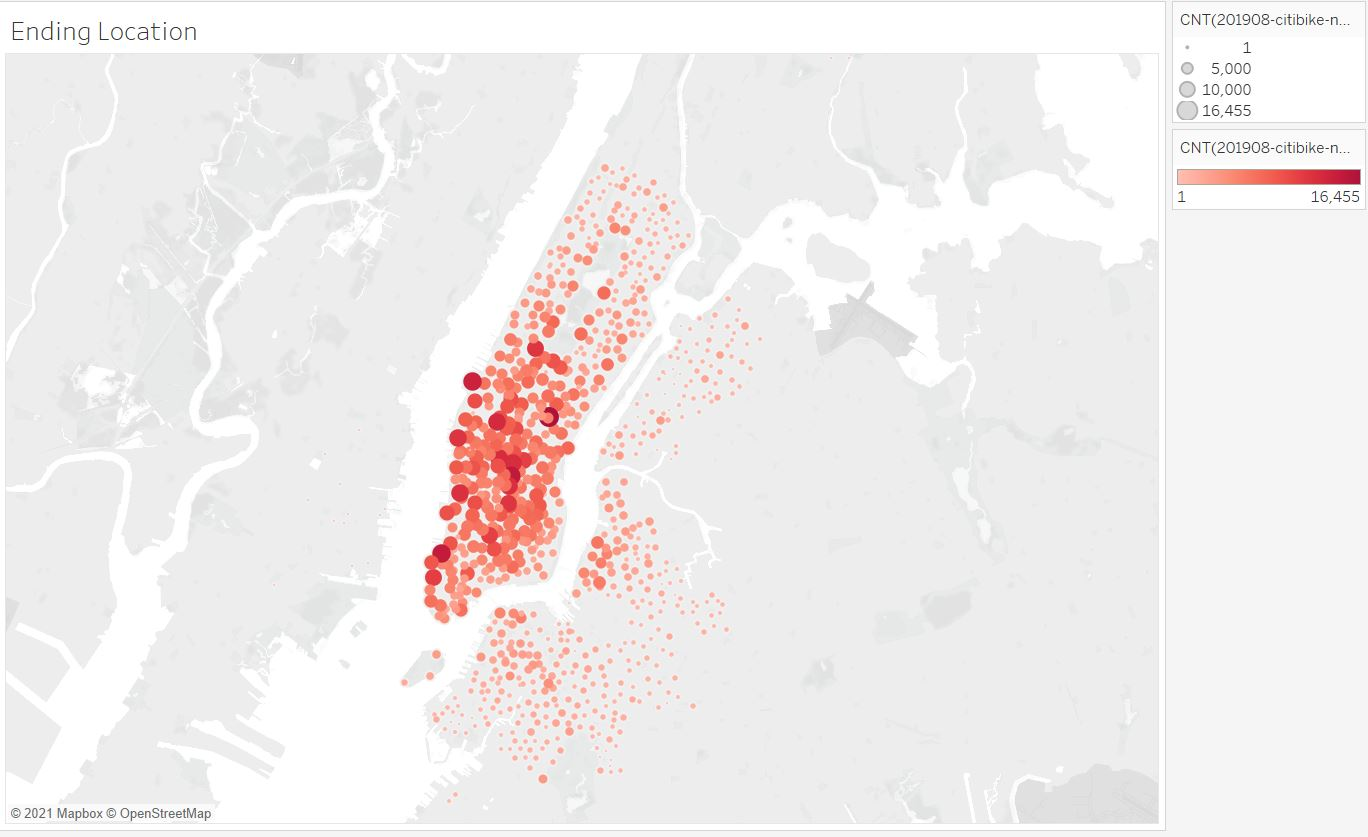
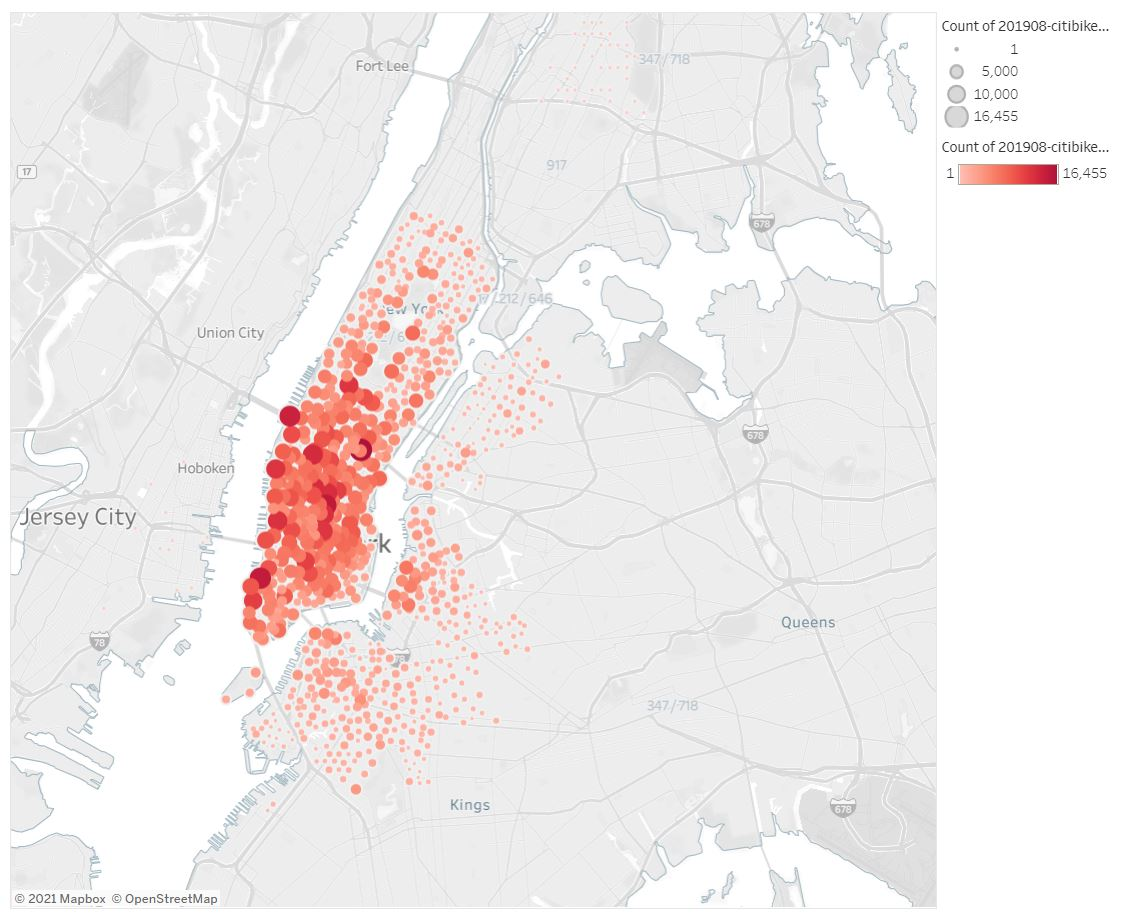
ReadMe updated with images

diff --git a/README.md b/README.md
@@ -2,9 +2,55 @@
 
 ## Overview
 The visualization is created using Tableau. The sheets and story: [link to dashboard](https://public.tableau.com/views/NYCBikeSharing_Chirayu/Story1?:language=en-US&publish=yes&:display_count=n&:origin=viz_share_link)
-
-
+The NYC CitiBike data has been analyzed to deepdive into finding usage and high frequency location targets. 
 
 ## Results
 
+### 1. Checkout Time for Users
+
+![](https://github.com/c3crocks/bikesharing_new/blob/main/Images/Checkout%20Time%20for%20Users.JPG)
+
+It is clearly seen that a high number of rides are under 30 minutes with an exponential drop over 30 minutes. 
+The rides for over an hour or 2 are hardly observed. 
+
+### 2. Checkout Time by Gender
+![](https://github.com/c3crocks/bikesharing_new/blob/main/Images/Checkout%20Time%20by%20Gender.JPG)
+
+On further analyzing graph#1 by Gender we can see that Male are the highest to use CitiBikes while Females are at number 2. 
+The count of unknowns are fairly low. 
+
+### 3. Trips by Weekday per Hour
+![](https://github.com/c3crocks/bikesharing_new/blob/main/Images/Trips%20by%20Weekday%20per%20Hour.JPG)
+
+It is observed that during Weekdays a high number of rides are seen between 7 am - 9 am and 5 pm - 7.30 pm. On Sunday and Saturday the weekday timings mellow down however the rest of the day until 7.30 pm looks very busy. 
+
+### 4. User trips by Gender by Weekday
+![](https://github.com/c3crocks/bikesharing_new/blob/main/Images/Trips%20by%20Gender%20(Weekday%20by%20Hour).JPG)
+
+The above analysis is further analyzed by Gender and Males took the top spot to book rides on Weekdays and Weekends too.
+Females were at number 2 while heatmap for the Unknowns remained fairly low. 
+
+### 5. User trips by Gender and UserType by Weekday
+![](https://github.com/c3crocks/bikesharing_new/blob/main/Images/User%20Trips%20by%20Gender%20by%20Weekday.JPG)
+
+Further drill down by Usertype looks like the Subscribed users (Male in Specific) are the most to use CitiBike service however non-subscribed customer's use was fairly low. 
+
+### 6. August Peak Hours
+![](https://github.com/c3crocks/bikesharing_new/blob/main/Images/August%20Peak%20Hours.JPG)
+
+The peak hours are seen at 5pm and 6pm in the evening while 8am during the morning. Lowest has been see during the night from 1 am to 4 am. 
+
+### 7. Starting and Ending Locations
+![](https://github.com/c3crocks/bikesharing_new/blob/main/Images/Starting%20Location.JPG)
+![](https://github.com/c3crocks/bikesharing_new/blob/main/Images/Ending%20Location.JPG)
+
+The majority of the pick-up and drop-off locations are in the lower part of the city while distributed activity is seen in the rest of the city. 
+
+
 ## Summary
+
+On analyzing the data we can see that Males are the highest users of the CitiBike while Females are the trailed behind. 
+Morning time from 7 am - 9 am and evening 5 pm - 7.30 pm is seen as the busiest timings for CitiBike usage. 
+2 additional visuals could be created
+- Pie chart to show total users by Gender
+- Pie chart to show total users by Gender and UserType
